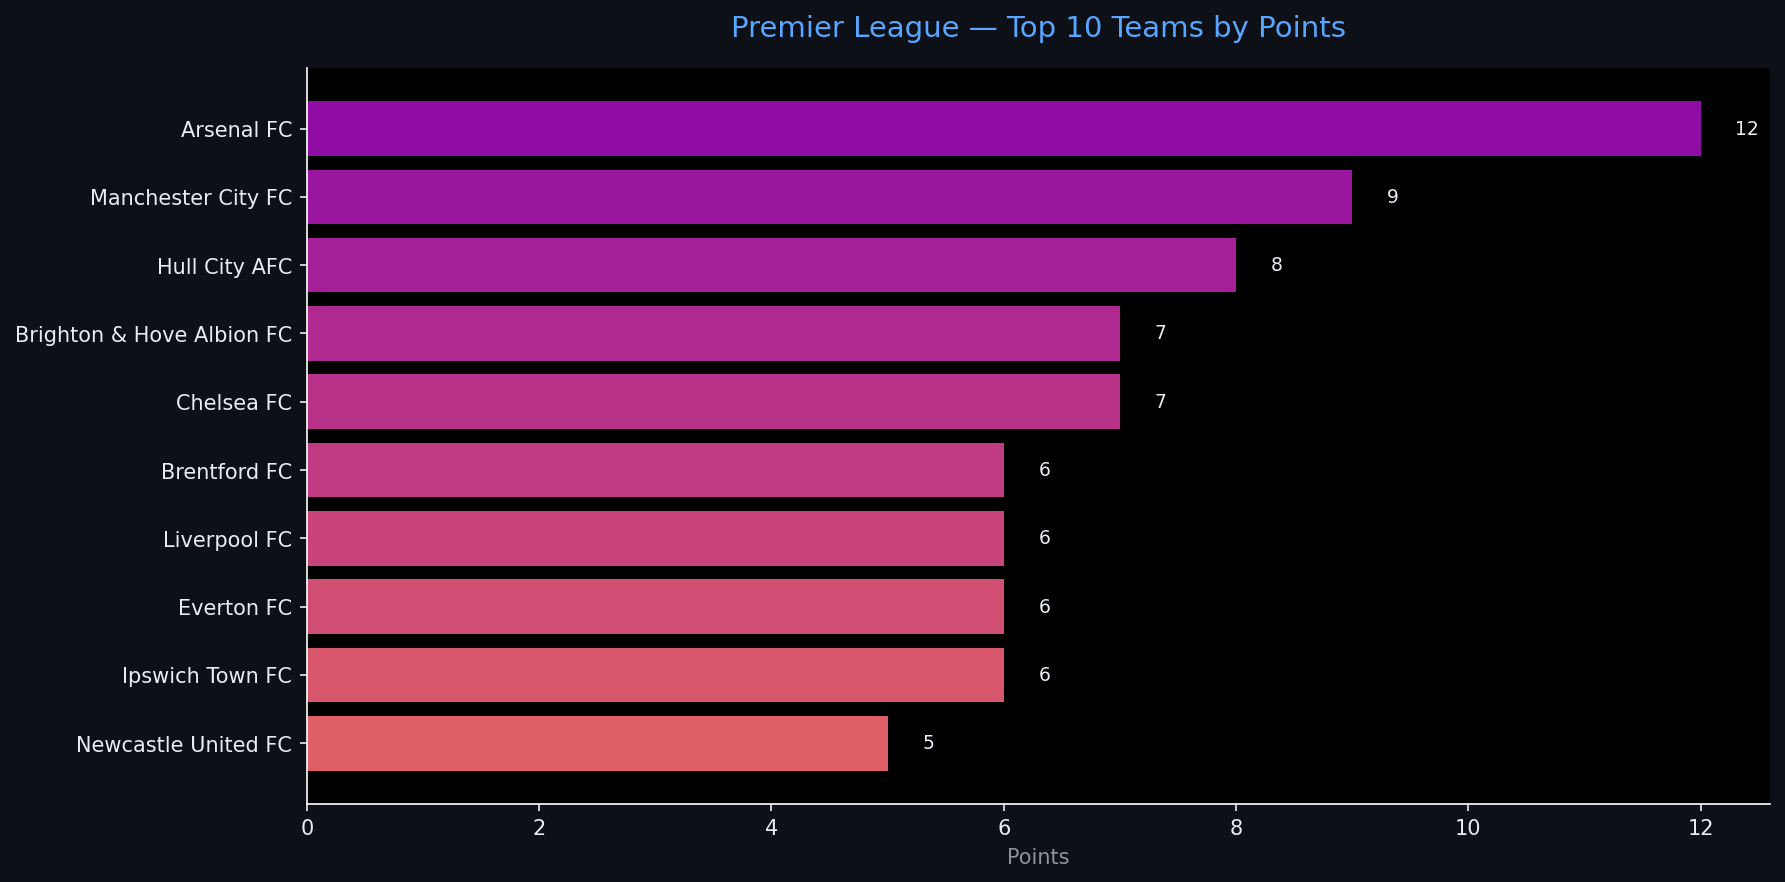
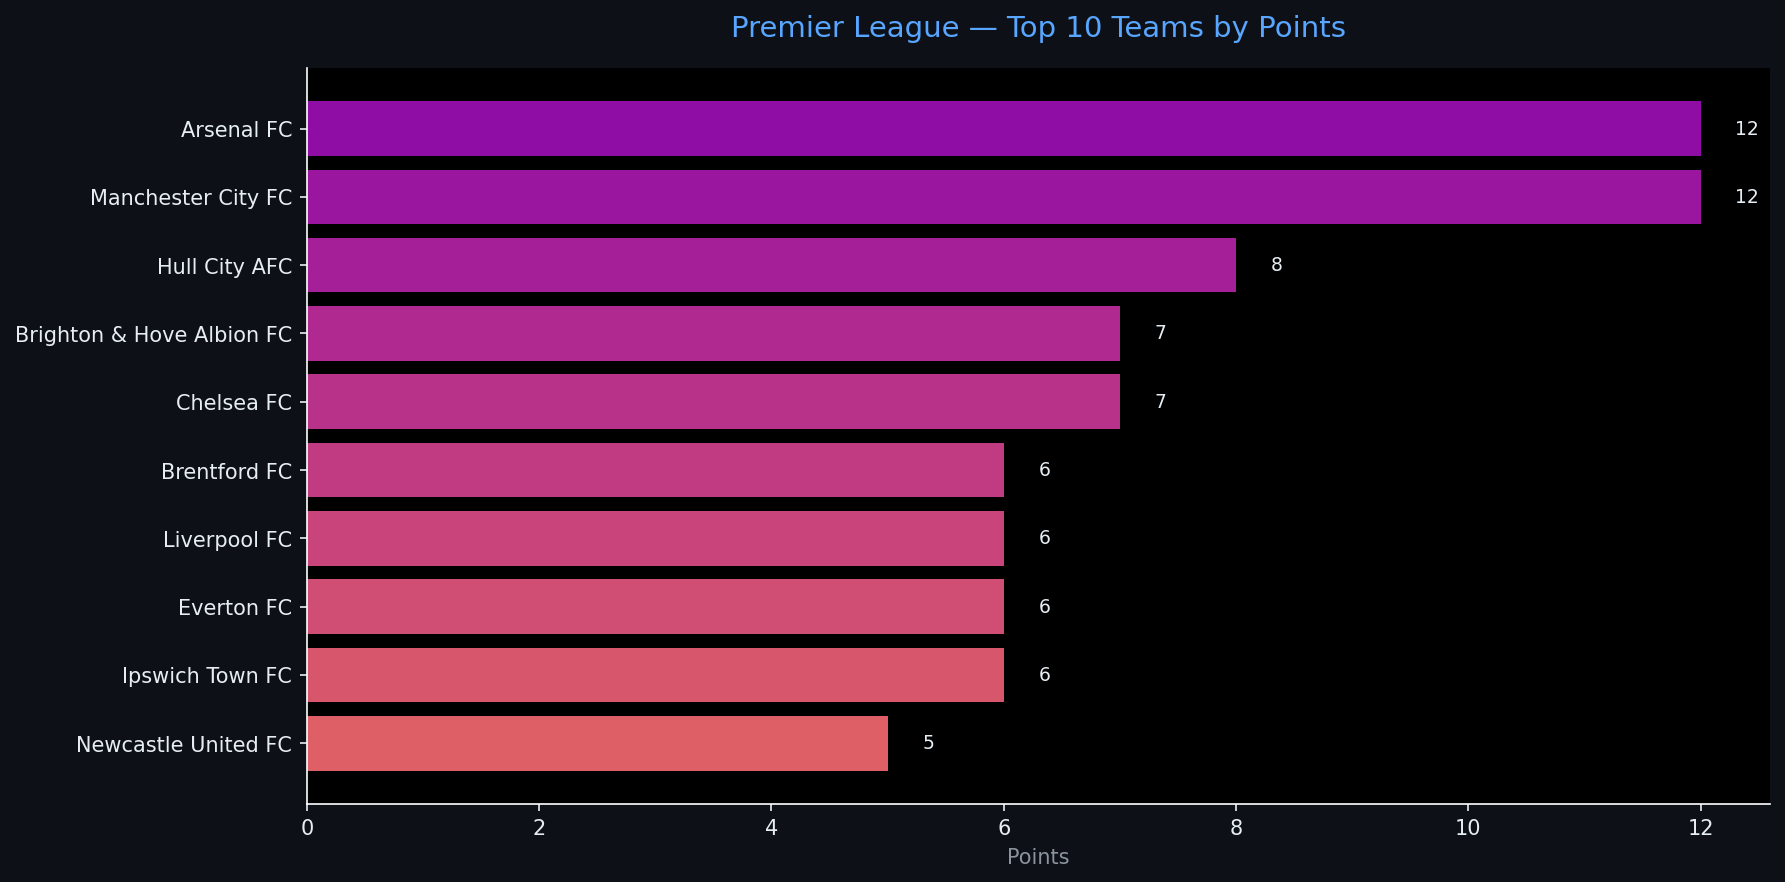
Automated ETL data update: 2026-09-13 18:27

Changed region(s): [[0.7395, 0.1837, 0.9552, 0.2755]]

diff --git a/reports/pipeline_report.html b/reports/pipeline_report.html
@@ -4,7 +4,7 @@
 <head>
     <meta charset="UTF-8">
     <meta name="viewport" content="width=device-width, initial-scale=1.0">
-    <title>Sports Data Pipeline Report — 2026-09-13 14:00</title>
+    <title>Sports Data Pipeline Report — 2026-09-13 18:27</title>
     <style>
         body { font-family: 'Segoe UI', sans-serif; background: #0d1117; color: #e6edf3; margin: 0; padding: 2rem; }
         h1   { color: #58a6ff; border-bottom: 1px solid #30363d; padding-bottom: 0.5rem; }
@@ -20,7 +20,7 @@
 </head>
 <body>
     <h1>⚽ Sports Data Pipeline — Automated Report</h1>
-    <p class="meta">Generated: 2026-09-13 14:00 UTC &nbsp;|&nbsp; Sport: <strong>football</strong> &nbsp;|&nbsp; Rows: <strong>20</strong></p>
+    <p class="meta">Generated: 2026-09-13 18:27 UTC &nbsp;|&nbsp; Sport: <strong>football</strong> &nbsp;|&nbsp; Rows: <strong>20</strong></p>
     <span class="badge">Pipeline v1.0.0</span>
     <h2>📊 Data Table</h2>
     <table class="dataframe data-table">
@@ -60,16 +60,16 @@
     <tr>
       <td>2</td>
       <td>Manchester City FC</td>
-      <td>3</td>
-      <td>9</td>
-      <td>3</td>
+      <td>4</td>
+      <td>12</td>
+      <td>4</td>
       <td>0</td>
       <td>0</td>
-      <td>7</td>
+      <td>8</td>
       <td>2</td>
       <td>1.000</td>
       <td>3.000</td>
-      <td>0.925</td>
+      <td>0.941</td>
       <td>NaN</td>
     </tr>
     <tr>
@@ -95,11 +95,11 @@
       <td>2</td>
       <td>1</td>
       <td>1</td>
-      <td>9</td>
+      <td>13</td>
       <td>5</td>
       <td>0.500</td>
       <td>1.750</td>
-      <td>0.764</td>
+      <td>0.871</td>
       <td>NaN</td>
     </tr>
     <tr>
@@ -225,16 +225,16 @@
     <tr>
       <td>13</td>
       <td>Manchester United FC</td>
-      <td>3</td>
+      <td>4</td>
       <td>4</td>
       <td>1</td>
       <td>1</td>
-      <td>1</td>
+      <td>2</td>
       <td>7</td>
-      <td>6</td>
-      <td>0.333</td>
-      <td>1.333</td>
-      <td>0.576</td>
+      <td>7</td>
+      <td>0.250</td>
+      <td>1.000</td>
+      <td>0.500</td>
       <td>NaN</td>
     </tr>
     <tr>
@@ -336,7 +336,7 @@
       <td>0</td>
       <td>4</td>
       <td>0</td>
-      <td>6</td>
+      <td>10</td>
       <td>0.000</td>
       <td>0.000</td>
       <td>0.000</td>
@@ -360,9 +360,9 @@
         
         <tr><td>Total Columns</td><td>29</td></tr>
         
-        <tr><td>Null Values</td><td>91</td></tr>
+        <tr><td>Null Values</td><td>93</td></tr>
         
-        <tr><td>Run Timestamp (UTC)</td><td>2026-09-13T14:00:30.604817</td></tr>
+        <tr><td>Run Timestamp (UTC)</td><td>2026-09-13T18:27:22.541381</td></tr>
         
         <tr><td>ML Features Ready</td><td>False</td></tr>
         
